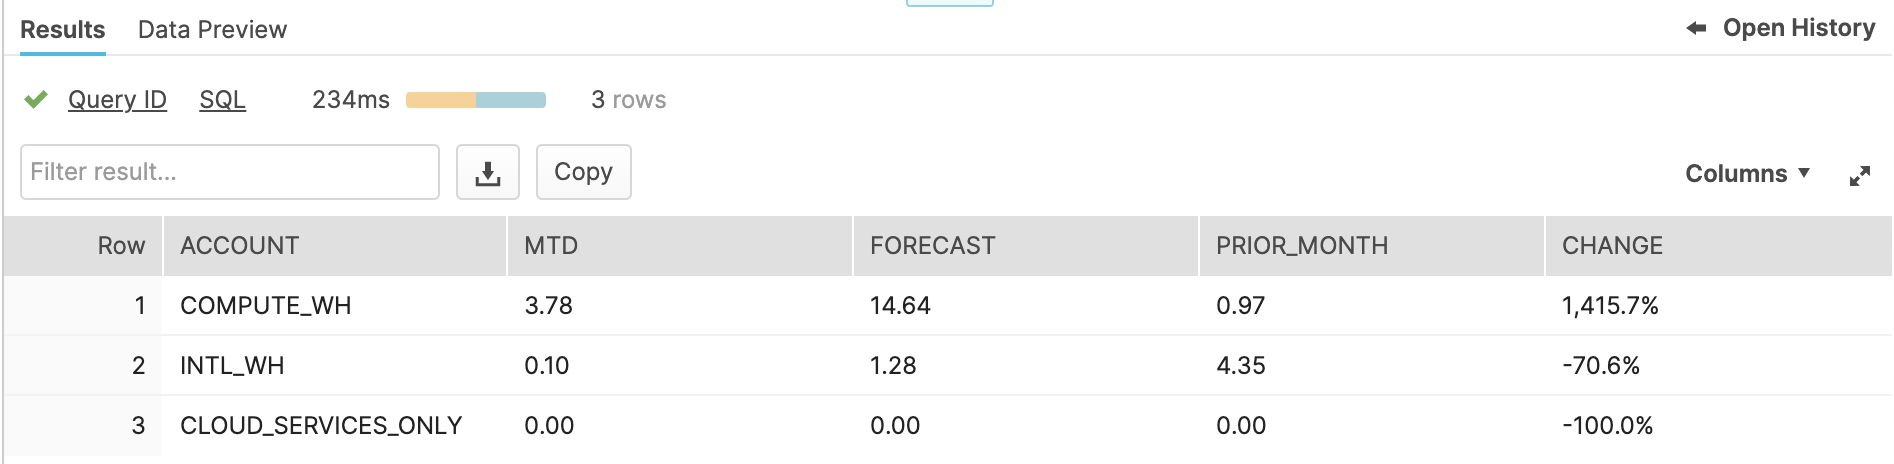
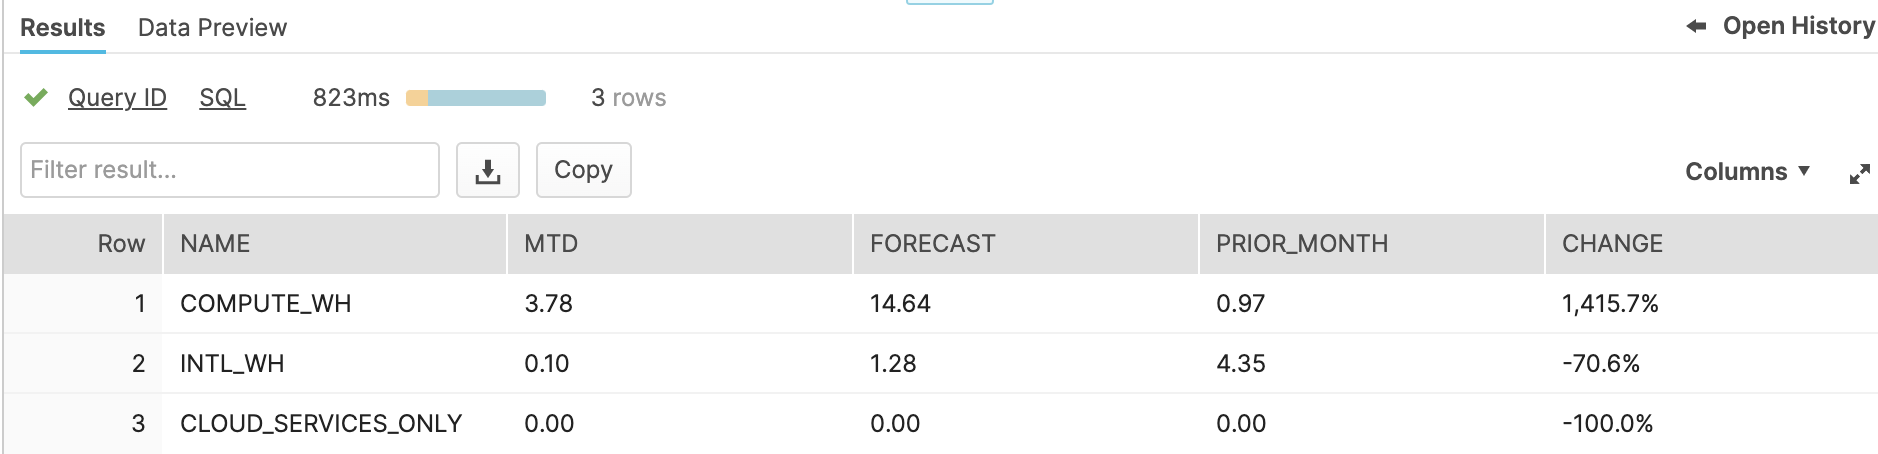
Update view by warehouse name

diff --git a/README.md b/README.md
@@ -42,16 +42,11 @@ call CALC_METERING_HISTORY_TREND();
 ```
 SELECT * from METERING_HISTORY_TREND;
 ```
-
-### Your ouput should look like this:
 ![Image of Cost Explorer](https://github.com/jimzucker/snowflake-usage-monitor/blob/main/images/METRIC_HISTORY_TREND.png)
-
 
 ```
 SELECT * from METERING_HISTORY_NAME_TREND;
 ```
-
-### Your ouput should look like this:
 ![Image of Cost Explorer](https://github.com/jimzucker/snowflake-usage-monitor/blob/main/images/METRIC_HISTORY_NAME_TREND.png)
 
 
